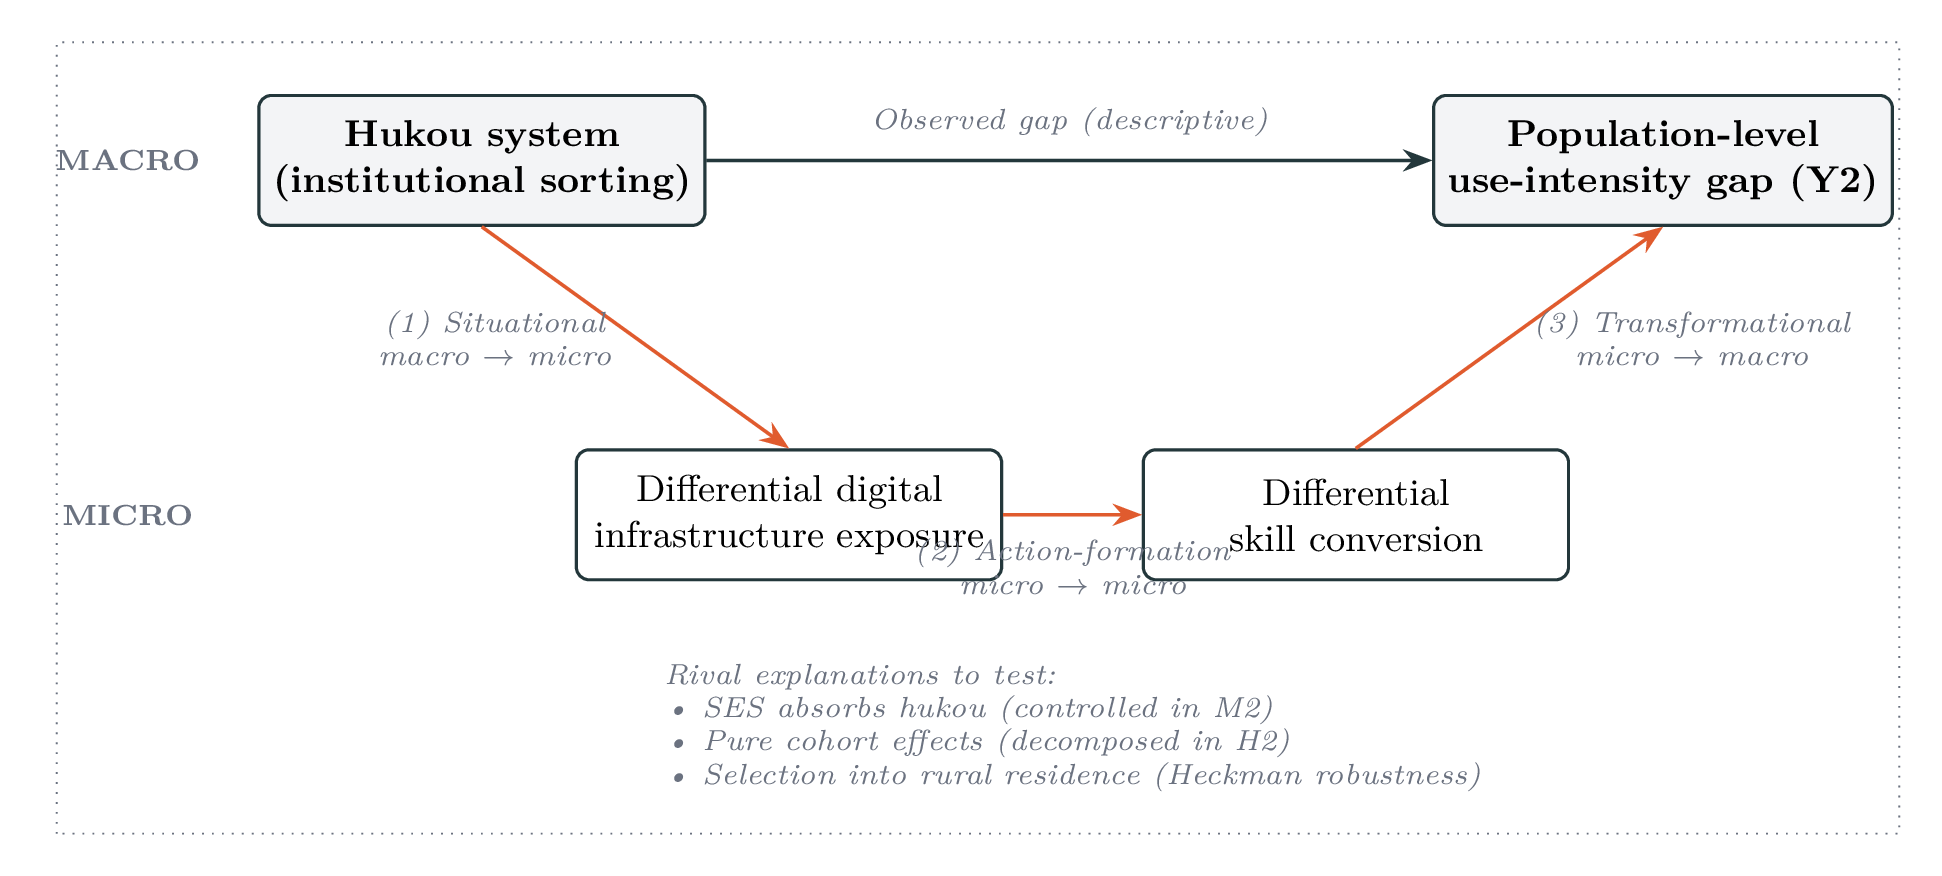
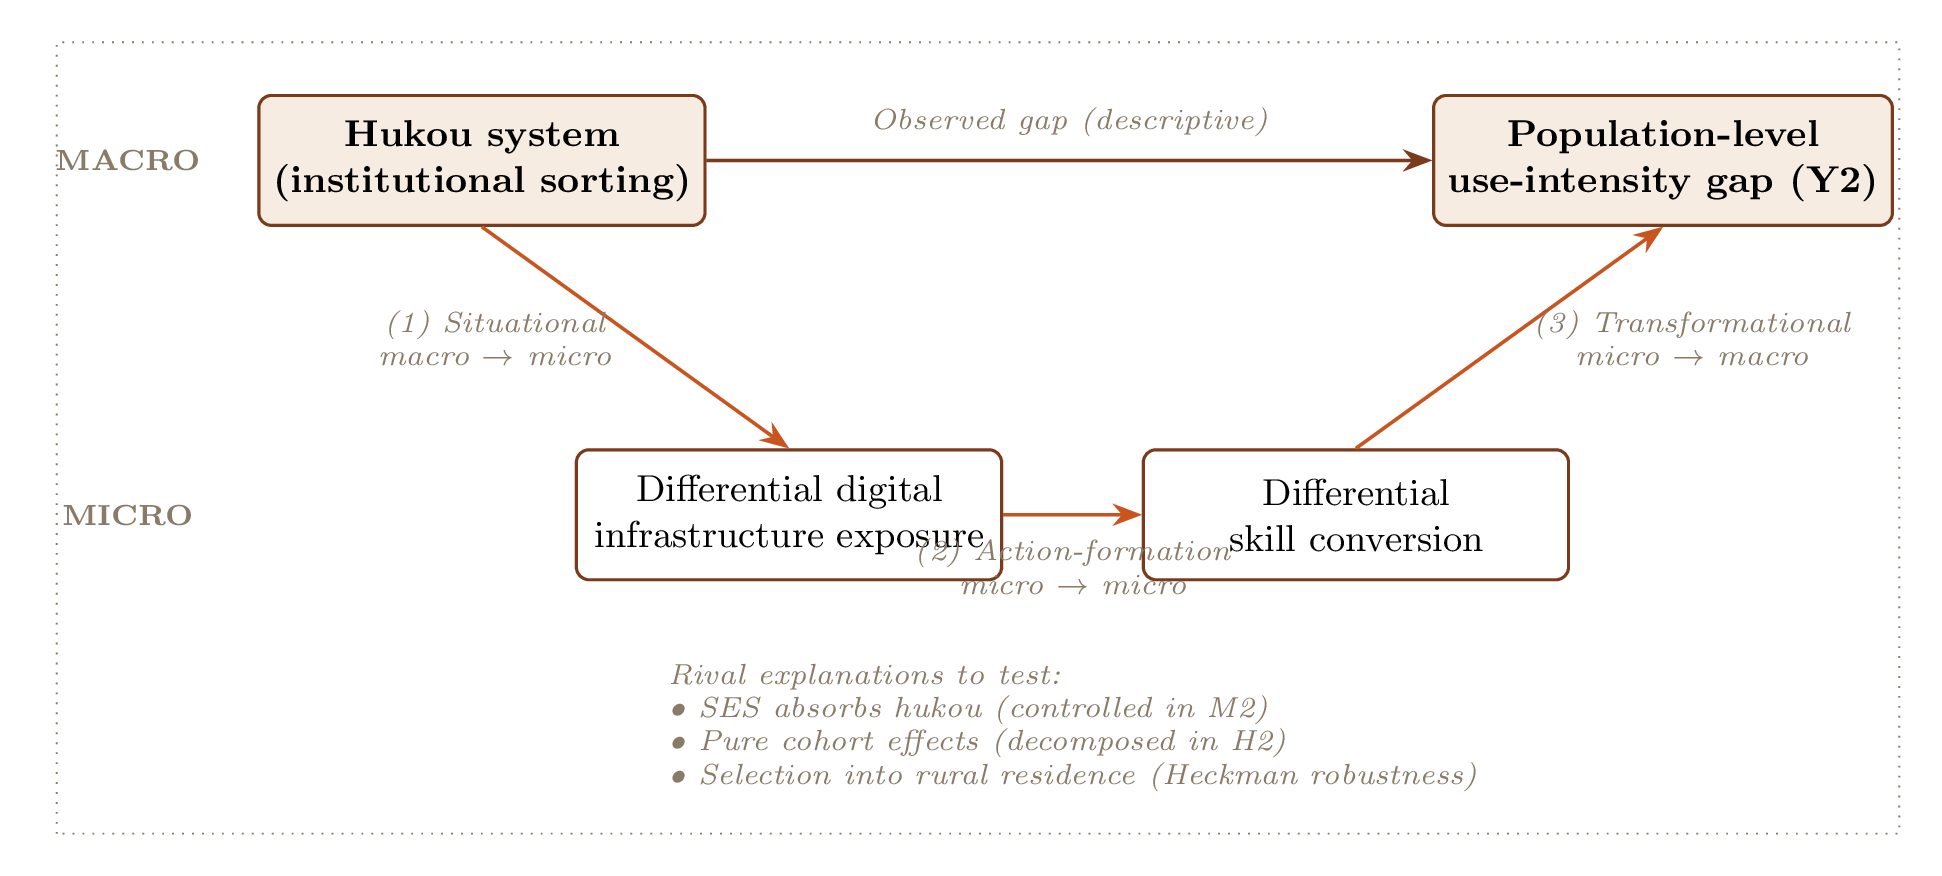
Handbook: warm code syntax palette + recolored figure to match
Retune the theme's cool solarized code highlighting to a warm palette
(rust keywords, olive strings/numbers, brown names, warm-gray comments).
Recompile the Coleman's-boat figure with warm colors (cream boxes,
terracotta borders, orange micro-arrows) to match the site scheme.

Claude-Session: https://claude.ai/code/session_015k5dF3qgLHFtSsdGKX8JVu

diff --git a/_includes/handbook-assets.html b/_includes/handbook-assets.html
@@ -22,6 +22,16 @@
 .page__content pre code, .page__content .highlight code { background: none; padding: 0; }
 /* the theme renders code blocks at ~11px ($type-size-7); bump to a readable size */
 .page__content .highlighter-rouge .highlight, .page__content figure.highlight .highlight { font-size: 0.92rem; line-height: 1.6; }
+/* warm-leaning code syntax highlighting (overrides the theme's cool solarized palette) */
+.page__content .highlight .c, .page__content .highlight .cm, .page__content .highlight .c1, .page__content .highlight .sb { color: #9a8d7a; font-style: italic; }
+.page__content .highlight .n, .page__content .highlight .p, .page__content .highlight .na, .page__content .highlight .nl, .page__content .highlight .nn, .page__content .highlight .nx, .page__content .highlight .l, .page__content .highlight .w, .page__content .highlight .py, .page__content .highlight .sd, .page__content .highlight .sh { color: #4a4038; }
+.page__content .highlight .k, .page__content .highlight .kn, .page__content .highlight .kp, .page__content .highlight .o, .page__content .highlight .ow, .page__content .highlight .cp, .page__content .highlight .cs { color: #a5401c; }
+.page__content .highlight .s, .page__content .highlight .s1, .page__content .highlight .s2, .page__content .highlight .sc, .page__content .highlight .si, .page__content .highlight .ss, .page__content .highlight .sx, .page__content .highlight .m, .page__content .highlight .mf, .page__content .highlight .mh, .page__content .highlight .mi, .page__content .highlight .mo, .page__content .highlight .il, .page__content .highlight .gd { color: #6f7a1e; }
+.page__content .highlight .kd, .page__content .highlight .kr, .page__content .highlight .nc, .page__content .highlight .nd, .page__content .highlight .nf, .page__content .highlight .nt, .page__content .highlight .nv, .page__content .highlight .bp, .page__content .highlight .vc, .page__content .highlight .vg, .page__content .highlight .vi, .page__content .highlight .fm { color: #9c5a1f; }
+.page__content .highlight .kc, .page__content .highlight .no, .page__content .highlight .se, .page__content .highlight .ni, .page__content .highlight .ne, .page__content .highlight .gh, .page__content .highlight .gu, .page__content .highlight .x { color: #c05a1e; }
+.page__content .highlight .nb { color: #b07d15; }
+.page__content .highlight .kt, .page__content .highlight .sr, .page__content .highlight .gr, .page__content .highlight .err { color: #c0392b; }
+.page__content .highlight .gi { color: #6f7a1e; }
 .page__content .hb-backlink { font-size: 0.92em; color: var(--hb-muted); margin: 0 0 1.4em; }
 .page__content .hb-backlink code { background: #f3eee7; }
 